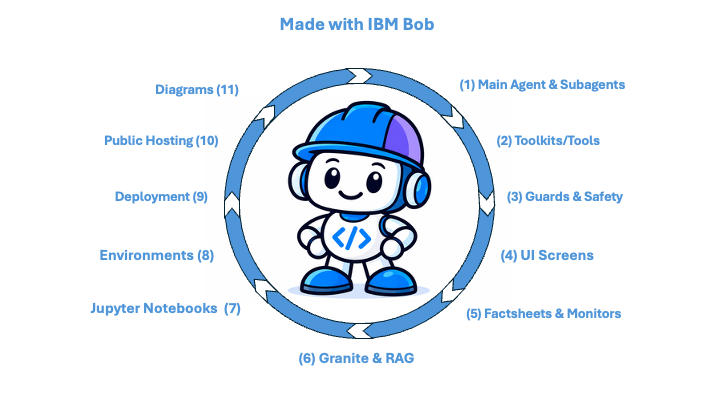
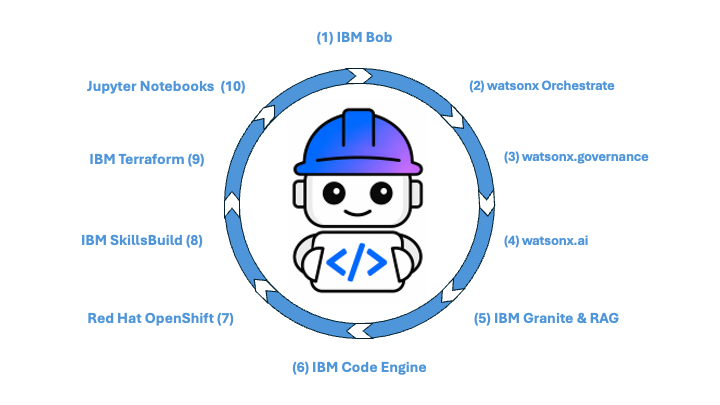
Updated README.

diff --git a/README.md b/README.md
@@ -10,6 +10,22 @@ Mission Veteran AI (by Golden Gate Glory or G3) is an AI-powered career chatbot,
   <img src="docs/images/ibmbobusage.png" alt="First Image" width="85%" />
 </p>
 
+
+| Index | IBM Product | Description |
+| :---: | :---:       | :---:       |
+
+| 1 | Bob | Development assistant throughout. |
+| 2 | watsonx Orchestrate | Agent coordination with 4 subagents react_core style, four registered toolkits. |
+| 3 | watsonx.governance | Bias & Fairness monitoring, Model Drift detection, Content Safecty on every inference, Explainability, and an immuitable Audit Trail. |
+| 4 | watsonx.ai | Model host and REST inference API. |
+| 5 | Granite & RAG | ibm/granite-4-h-small via watsonx.ai as the primary LLM for all five inference steps with Groq as a fallback, and 12 RAG sources. |
+| 6 | Code Engine | Optional deployment target implemented to host FastAPI bridge server container. |
+| 7 | OpenShift | Optional deployment target implemented to host FastAPI bridge server container. |
+| 8 | SkillsBuild | RAG knowledge source for course recommendations. |
+| 9 | Terraform | Deployment targets provisioned with Terraform. |
+| 10 | Jupyter Notebooks | Seven notebooks used for standalone step testing. |
+
+
 | Index | Component | Document | Products Used | IBM Bob Contributions |
 | :---: | :---:     | :---:    | :---:         | :---: |
 | 1 | Main Agent & Subagents | [Agents](docs/agents.md) | IBM Bob, watsonx Orchestrate | Created coordinator agent & 4 subagents. |
